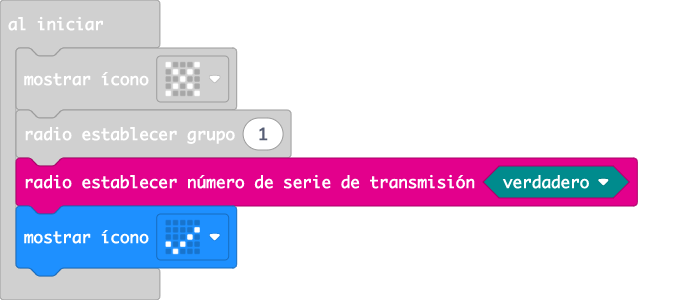
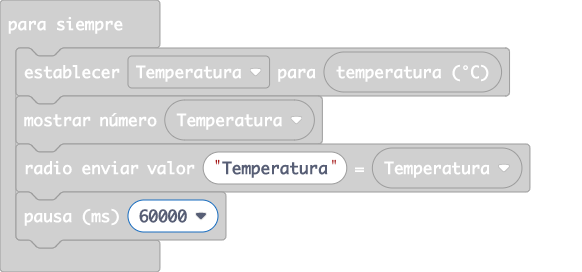
Update main.blocks, main.ts

diff --git a/main.ts b/main.ts
@@ -7,5 +7,5 @@ basic.forever(function () {
     Temperatura = input.temperature()
     basic.showNumber(Temperatura)
     radio.sendValue("Temperatura", Temperatura)
-    basic.pause(5000)
+    basic.pause(60000)
 })
